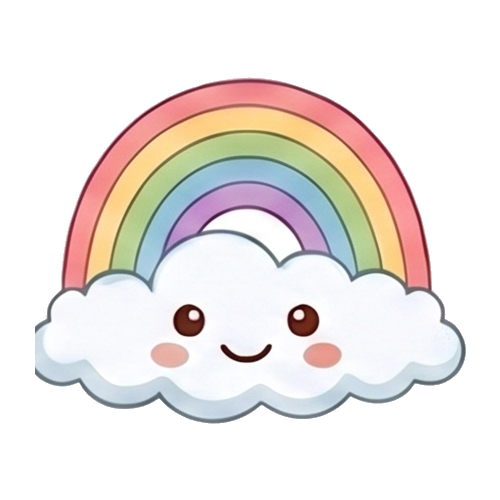
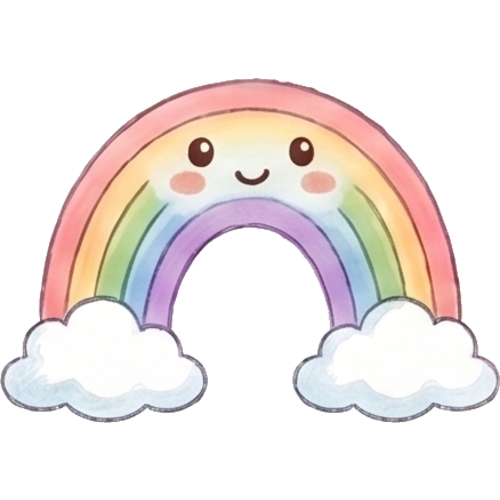
Fix rainbow cloud crop, shrink hero image, increase CTA spacing
- Re-crop rainbow icon with full cell height so cloud is not cut off
- Reduce hero image max-width from 480px to 380px
- Increase CTA wrap padding from space-4 to space-5

diff --git a/website/style.css b/website/style.css
@@ -444,7 +444,7 @@ img { max-width: 100%; height: auto; display: block; }
 .hero__image {
   margin-top: 1.5rem;
   margin-bottom: 0;
-  max-width: 480px;
+  max-width: 380px;
   margin-inline: auto;
   position: relative;
 }
@@ -573,7 +573,7 @@ img { max-width: 100%; height: auto; display: block; }
 }
 .cta-wrap {
   text-align: center;
-  padding: var(--space-4) 0;
+  padding: var(--space-5) 0;
   display: flex;
   justify-content: center;
 }